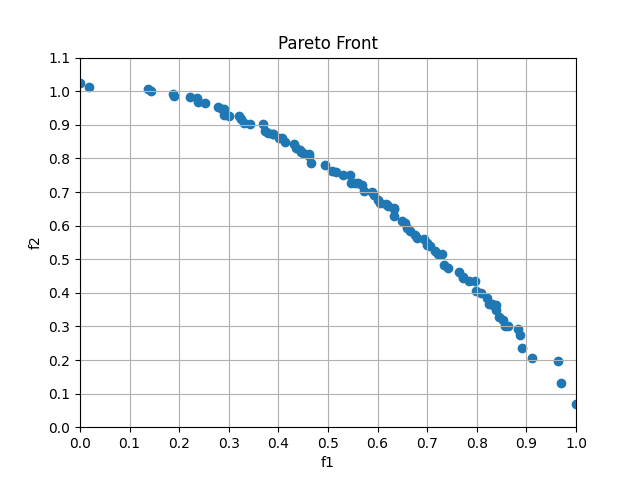
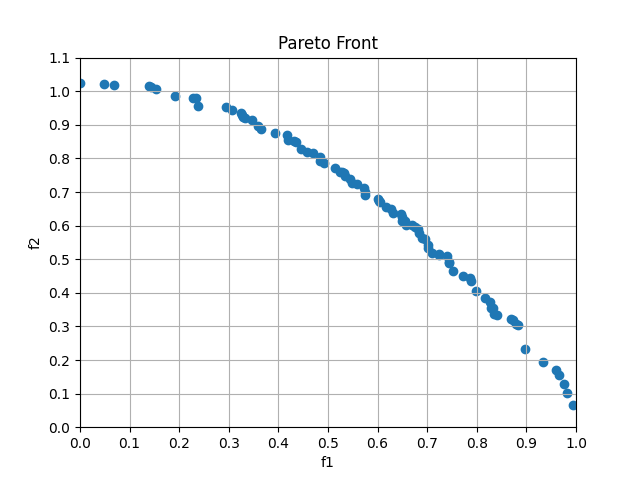
3

diff --git a/nsga2_me.py b/nsga2_me.py
@@ -249,6 +249,61 @@ class Particles:
         # plt.show()
         plt.savefig('Pareto Front 2.png')
 
+    def tops(self):
+        # 选出最好的一个粒子
+        matrix_a = numpy.zeros((len(self.XX), 2))   # 原矩阵,记录粒子的适应度值
+        for i in range(len(self.XX)):
+            matrix_a[i][0] = self.XX[i][1][0]
+            matrix_a[i][1] = self.XX[i][1][1]
+        matrix_b = numpy.zeros((len(self.XX), 2))     # 规范化矩阵
+        total_0 = 0
+        total_1 = 0
+        for i in range(len(matrix_a)):
+            total_0 += pow(matrix_a[i][0], 2)
+            total_1 += pow(matrix_a[i][1], 2)
+        total_0 = pow(total_0, 0.5)
+        total_1 = pow(total_1, 0.5)
+        for i in range(len(matrix_b)):
+            matrix_b[i][0] = matrix_a[i][0] / total_0
+            matrix_b[i][1] = matrix_a[i][1] / total_1
+        # print(matrix_a)
+        # print(matrix_b)
+        best = numpy.zeros(2)
+        for i in range(2):
+            temp = 1
+            for j in range(len(matrix_b)):
+                if matrix_b[j][i] < temp:
+                    temp = matrix_b[j][i]
+            best[i] = temp
+        worst = numpy.zeros(2)
+        for i in range(2):
+            temp = 0
+            for j in range(len(matrix_b)):
+                if matrix_b[j][i] > temp:
+                    temp = matrix_b[j][i]
+            worst[i] = temp
+        # print(best)
+        # print(worst)
+        matrix_c = numpy.zeros(len(matrix_a))       # 存放评价指标，越接近1越好
+        for i in range(len(matrix_a)):
+            d_zheng = 0
+            d_fu = 0
+            for j in range(2):
+                d_zheng += pow((best[j] - matrix_b[i][j]), 2)
+                d_fu += pow((worst[j] - matrix_b[i][j]), 2)
+            d_zheng = pow(d_zheng, 0.5)
+            d_fu = pow(d_fu, 0.5)
+            matrix_c[i] = d_fu / (d_fu + d_zheng)
+        # print(matrix_c)
+        temp = 0
+        temp_index = -1
+        for i in range(len(matrix_c)):
+            if matrix_c[i] > temp:
+                temp = matrix_c[i]
+                temp_index = i
+        print("最好的粒子编号：", temp_index, "它的适应度值：", temp, "函数值1：", self.XX[temp_index][1][0], "函数值2：", self.XX[temp_index][1][1], "粒子：", self.XX[temp_index][0])
+        # print(temp, temp_index)
+
 
 if __name__ == '__main__':
     gen = 500
@@ -265,10 +320,10 @@ if __name__ == '__main__':
         particles.crowd()
         particles.choose()
         particles.quick_sort()
-        # for i in range(len(particles.pareto)):
-        #     print("正在输出第", i, "阶级")
-        #     for j in particles.pareto[i]:
-        #         print("该粒子编号", j, "适应度函数值为", particles.XX[j][1][0], particles.XX[j][1][1], "拥挤度值为", particles.XX[j][2])
         gen -= 1
-
     particles.draw()
+    for i in range(len(particles.pareto)):
+        print("正在输出第", i, "阶级")
+        for j in particles.pareto[i]:
+            print("该粒子编号", j, "适应度函数值为", particles.XX[j][1][0], particles.XX[j][1][1], "拥挤度值为", particles.XX[j][2])
+    particles.tops()
